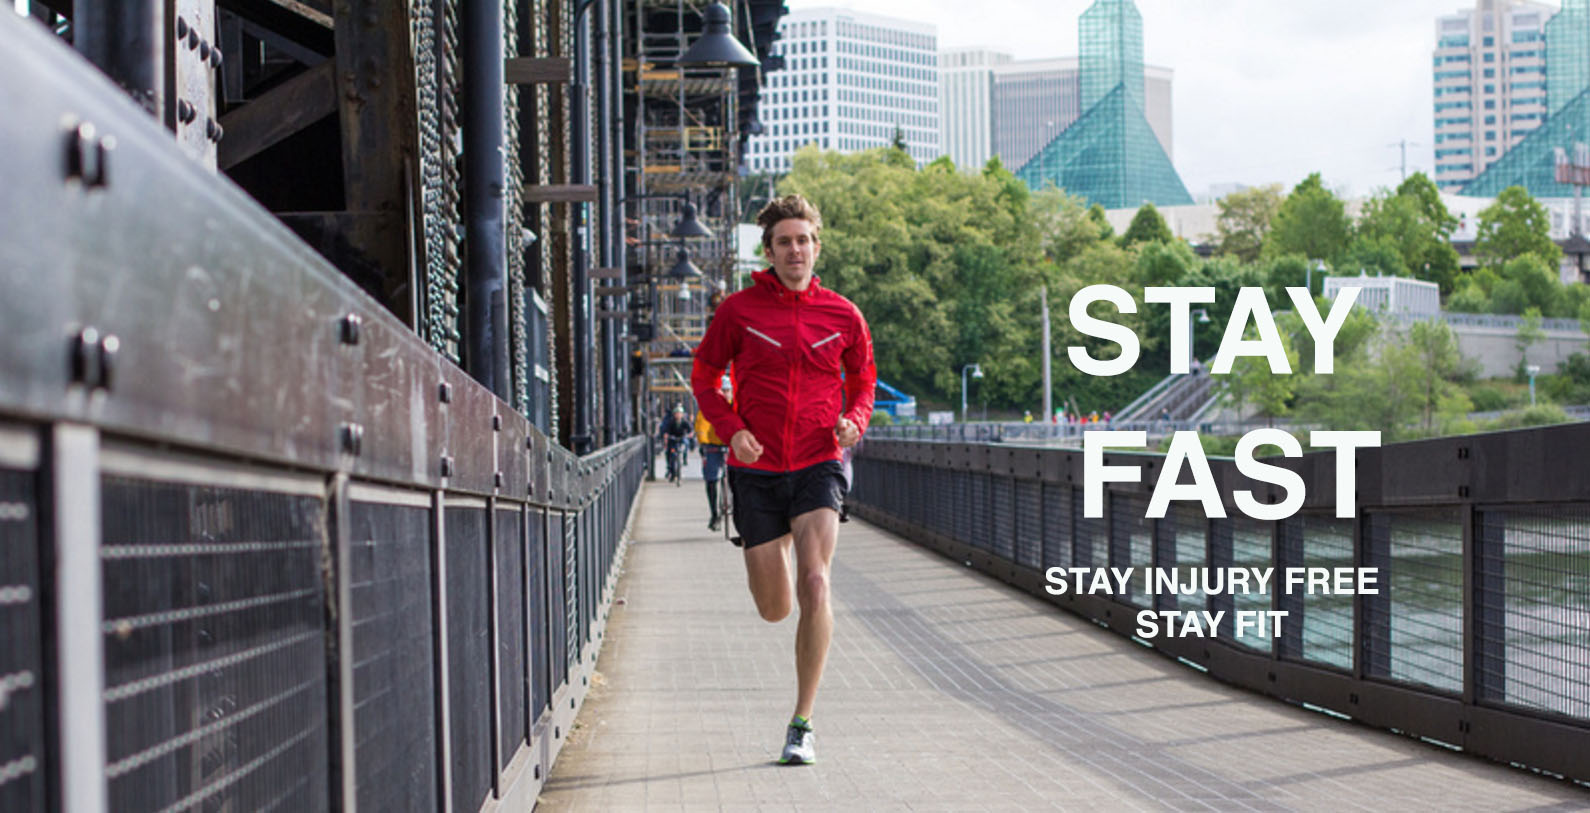
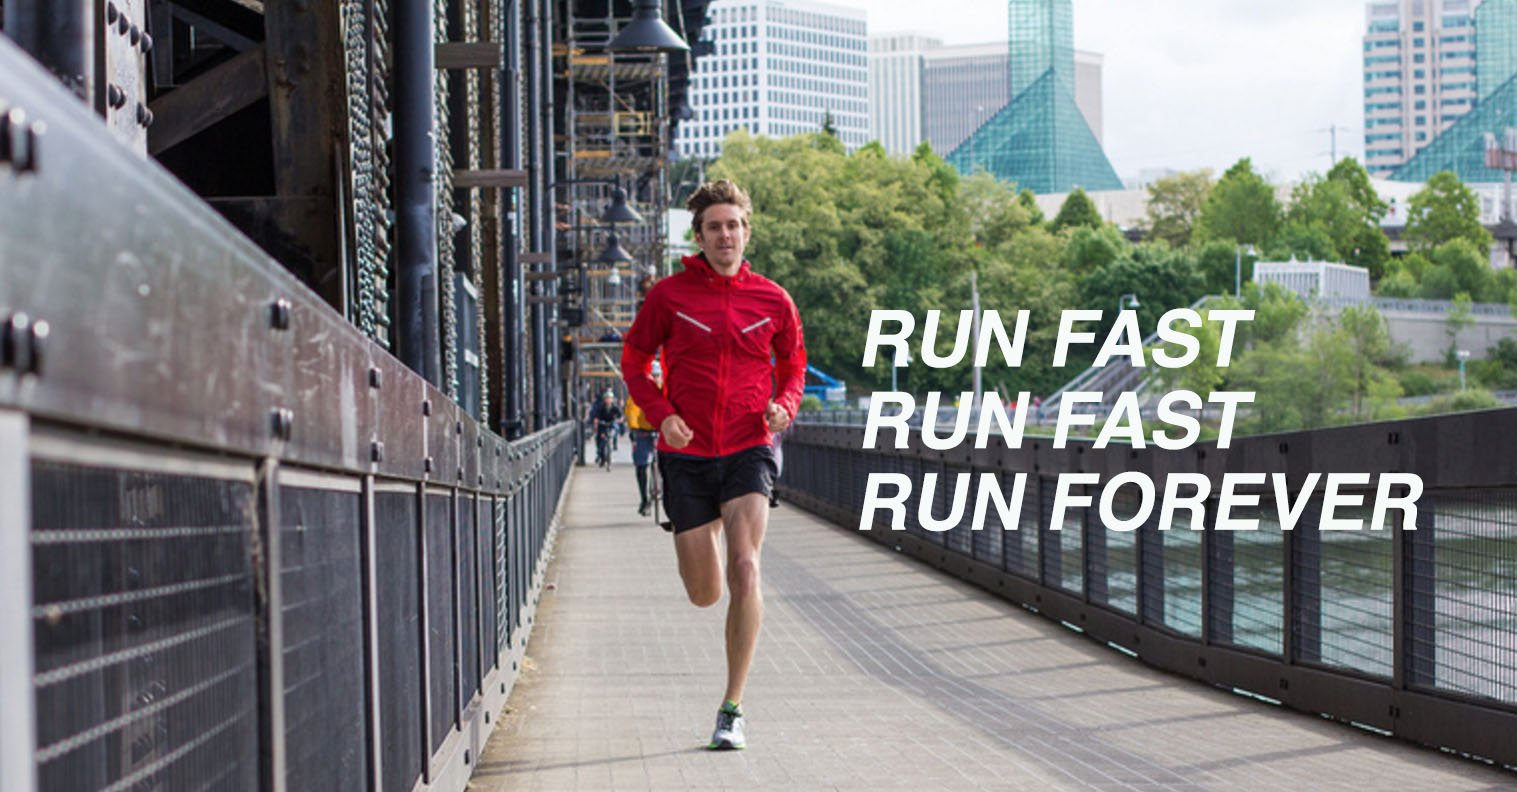
mods to header

diff --git a/index.html b/index.html
@@ -81,7 +81,7 @@
 						<li data-transition="fade" class="dark">
 							
 							<!-- MAIN IMAGE -->
-							<img src="assets/images/run-fast-one.jpg"  alt="" >							
+							<img src="assets/images/run-fast-modified.jpg"  alt="" >							
 
 							<!-- LAYER NR. 1 -->
 							<div class="tp-caption BigBold-Title tp-resizeme rs-parallaxlevel-0" 							
@@ -102,7 +102,7 @@
 						<li data-transition="fade">
 							
 							<!-- MAIN IMAGE -->
-							<img src="assets/images/run-fast-run-fast.jpg"  alt="" >							
+							<img src="assets/images/run-fast-road-mod-text.jpg"  alt="" >							
 
 							<!-- LAYER NR. 1 -->
 							<div class="tp-caption BigBold-Title tp-resizeme rs-parallaxlevel-0" 							
